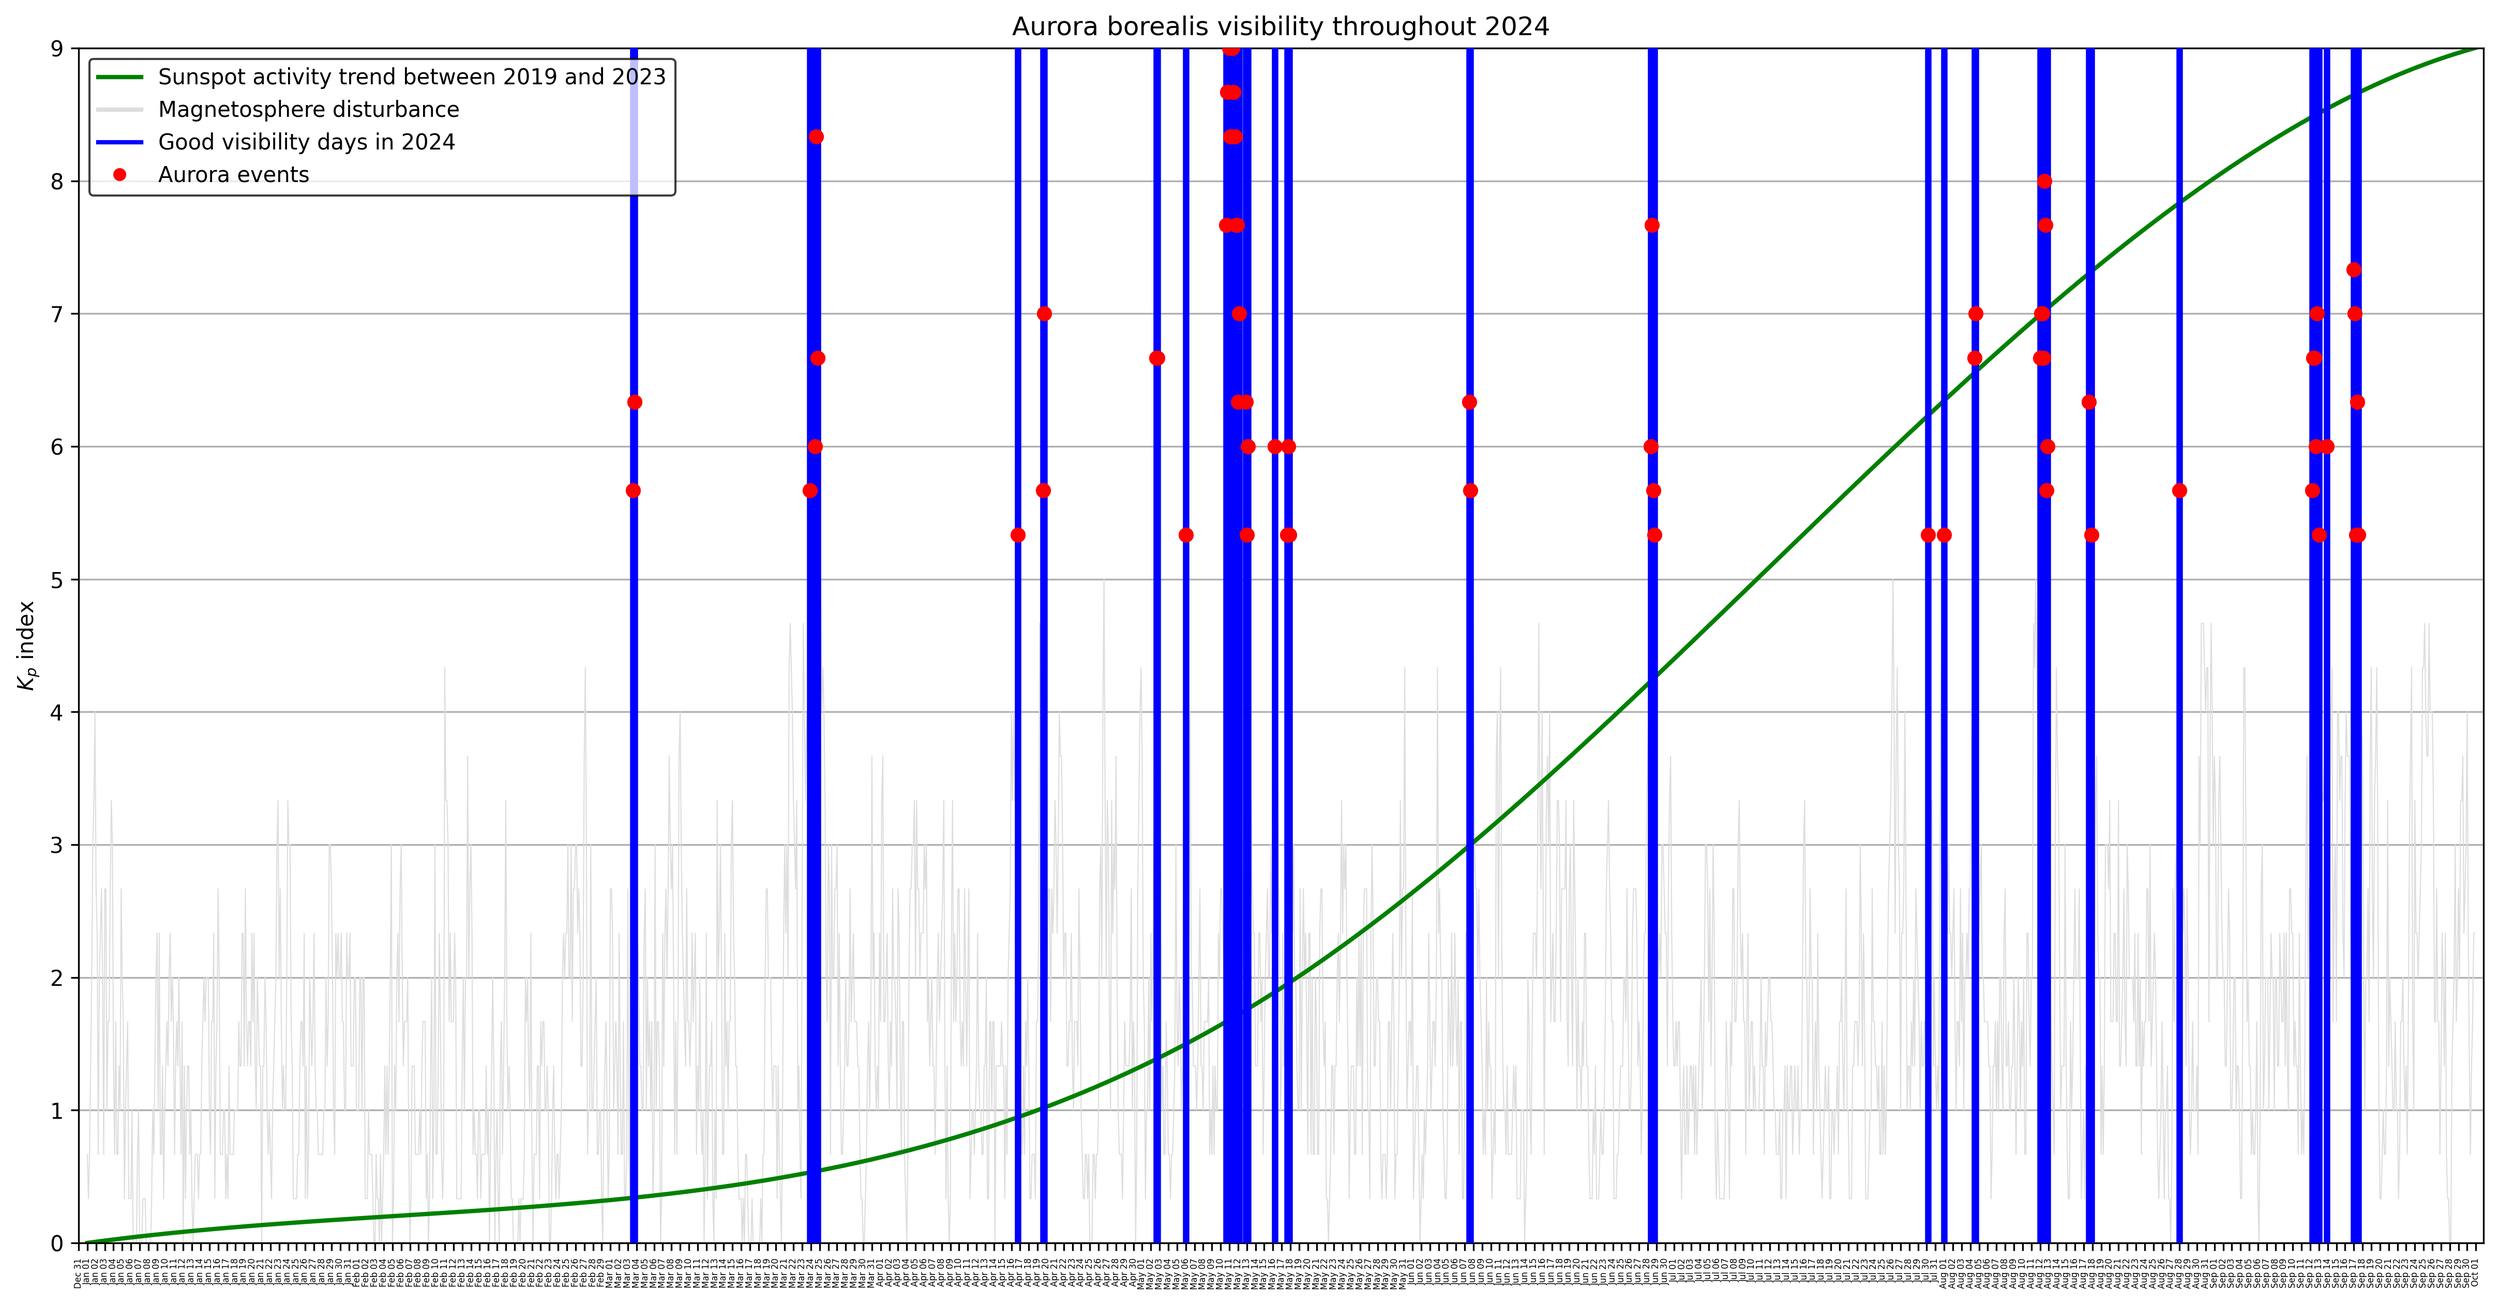
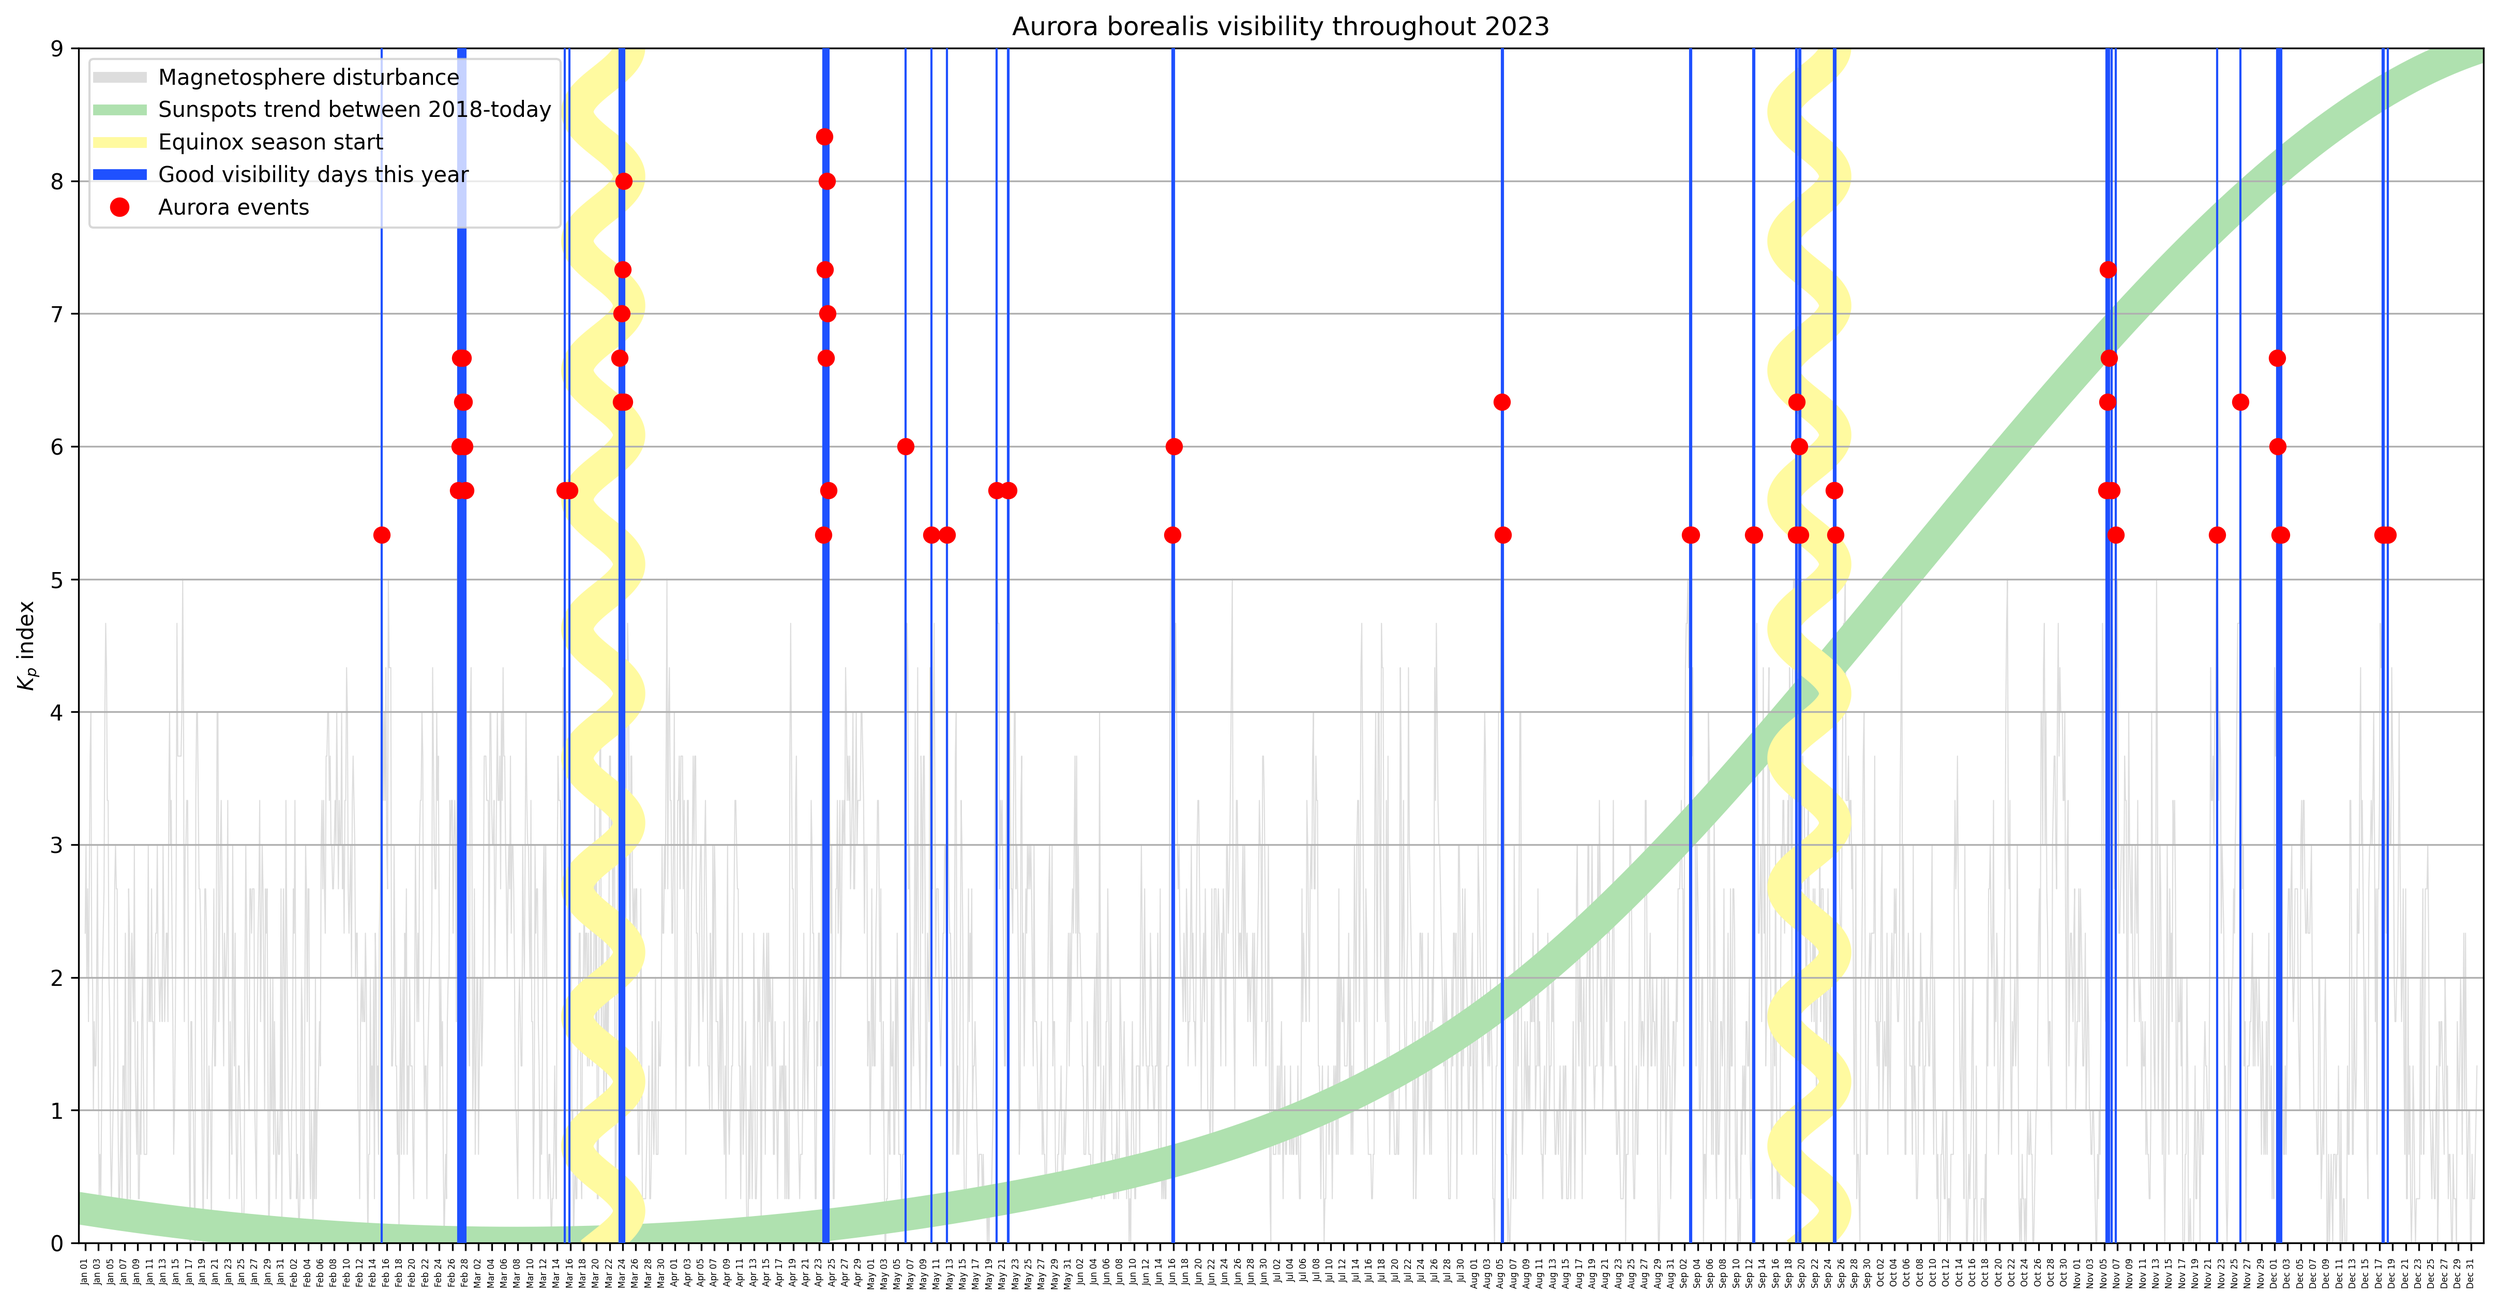
equinox

diff --git a/ABV.py b/ABV.py
@@ -12,195 +12,157 @@ import matplotlib.dates as mdates
 import matplotlib.pyplot as plt
 import numpy as np
 from scipy.interpolate import CubicSpline
+from matplotlib import rcParams
 
 # constants
-KP_THRESHOLD = 5  # threshold for kp index to highlight
-CACHE_DIR = './cache'  # directory to store cached data
-SUNSPOT_FILE = f'{CACHE_DIR}/SN_y_tot_V2.0.csv'  # path to the sunspot csv file
+KP_THRESHOLD = 5
+CACHE_DIR = './cache'
+SUNSPOT_FILE = f'{CACHE_DIR}/SN_y_tot_V2.0.csv'
 
-# ensure the cache directory exists
-if not os.path.exists(CACHE_DIR):
-    os.makedirs(CACHE_DIR)
+# ensure cache directory exists
+os.makedirs(CACHE_DIR, exist_ok=True)
 
-# function to handle logging, respects --quiet flag
 def log(message, quiet=False):
     if not quiet:
         print(message)
 
-# load kp index data from a local json file or fetch from api if not cached
 def load_or_fetch_kp_index(year, quiet=False):
     cache_file = f'{CACHE_DIR}/kp_index_{year}.json'
 
-    # check if the year is in the future
     current_year = datetime.now().year
     if year > current_year:
         log(f"Year {year} not supported by data or not current", quiet)
         sys.exit(1)
 
-    # check if cache file exists
     if os.path.exists(cache_file):
         log(f"Loading Kp index data for {year} from cache", quiet)
         with open(cache_file, 'r') as f:
             data = json.load(f)
             times = [datetime.strptime(t, '%Y-%m-%dT%H:%M:%SZ') for t in data['times']]
-            kp_index = data['kp_index']
-            return times, kp_index
+            kp_values = data['kp_index']
+            return times, kp_values
     else:
         try:
-            # fetch kp index data from the api
             log(f"Fetching Kp index data for {year} from the API", quiet)
-            start_date = f'{year}-01-01'
-            end_date = f'{year}-12-31'
-
-            # get kp index data using the external script
-            times, kp_index, status = getKpindex(start_date, end_date, 'Kp', 'def')
-
-            # convert time strings to datetime objects
+            start_date, end_date = f'{year}-01-01', f'{year}-12-31'
+            times, kp_values, status = getKpindex(start_date, end_date, 'Kp', 'def')
             times = [datetime.strptime(t, '%Y-%m-%dT%H:%M:%SZ') for t in times]
 
-            # save the data to the cache file
             with open(cache_file, 'w') as f:
-                json.dump({'times': [t.strftime('%Y-%m-%dT%H:%M:%SZ') for t in times], 'kp_index': kp_index}, f)
+                json.dump({'times': [t.strftime('%Y-%m-%dT%H:%M:%SZ') for t in times], 'kp_index': kp_values}, f)
 
-            return times, kp_index
-        except NameError:
-            log(f"Year {year} not supported by data or not current", quiet)
+            return times, kp_values
+        except Exception:
+            log(f"Error fetching Kp index data for {year}.", quiet)
             sys.exit(1)
 
-# load sunspot data for a range of years from the csv file
 def load_sunspot_data(start_year, end_year, quiet=False):
     if not os.path.exists(SUNSPOT_FILE):
         log(f"Sunspot data file not found: {SUNSPOT_FILE}", quiet)
         return None
 
     sunspot_data = {}
-    # read the csv file without skipping the header (since it's crude and headerless)
     with open(SUNSPOT_FILE, 'r') as csvfile:
         reader = csv.reader(csvfile, delimiter=';')
-
         for row in reader:
-            row_year = float(row[0])  # use float to capture the `.5`
-            int_year = int(row_year)  # convert to integer to ignore the `.5`
-            if start_year <= int_year <= end_year:
-                sunspot_value = float(row[1])  # second column is the sunspot value
-                sunspot_data[int_year] = sunspot_value
+            try:
+                row_year = int(float(row[0])) # conversions to ignore the .5 float in the data
+                if start_year <= row_year <= end_year:
+                    sunspot_data[row_year] = float(row[1]) # second column is the sunspot value
+            except (ValueError, IndexError):
+                continue
 
     return sunspot_data
 
-# plot kp index for a specific year with local cache support and overlay sunspot data
 def plot_kp_index_for_year(year, quiet=False, clean=False):
-    # load or fetch kp index data
-    times, kp_index = load_or_fetch_kp_index(year, quiet)
+    times, kp_values = load_or_fetch_kp_index(year, quiet)
 
-    # debugging: print the retrieved data length
     log(f"Retrieved {len(times)} entries for year {year}", quiet)
 
-    # load sunspot data for the current year, the previous 5 years, and the next year
     start_year = year - 5
-    prev_year = year - 1  # fetch the previous year's value
-    next_year = year + 1  # fetch the next year's value
-    sunspot_data = load_sunspot_data(start_year, next_year, quiet)
+    sunspot_data = load_sunspot_data(start_year, year + 1, quiet)
 
-    # handle missing sunspot data
     if not sunspot_data:
         log("Sunspot data not available, skipping sunspot plot.", quiet)
-        sunspot_data = {}  # set to an empty dictionary to avoid future errors
+        sunspot_data = {} # set to an empty dictionary to avoid future errors
 
     # find the last available year for sunspot data
     last_available_year = max(sunspot_data.keys(), default=None)
 
+    sunspot_values = [sunspot_data.get(yr) for yr in range(start_year, last_available_year + 1)] if last_available_year else None
+
     if last_available_year and last_available_year < year:
         log(f"Sunspot data only available up to {last_available_year}", quiet)
-    else:
-        last_available_year = year  # use the current year if data exists for it
 
-    # get the sunspot values in the range [start_year, last_available_year]
-    sunspot_years = [yr for yr in range(start_year, last_available_year + 1) if yr in sunspot_data]  # only use years with data
-    sunspot_values = [sunspot_data.get(yr) for yr in sunspot_years]  # skip years without sunspot data
+    plt.figure(figsize=(20, 10))
 
     # log sunspot data for the previous year (if available)
-    if prev_year in sunspot_data:
-        log(f"Previous year sunspot: {sunspot_data[prev_year]}", quiet)
+    if year - 1 in sunspot_data:
+        log(f"Sunspots before {year}: {sunspot_data[year - 1]}", quiet)
+
+    plt.plot(times, kp_values, color='#dddddd', linewidth=0.5, zorder=1)
 
     # output sunspot value for logging (only if available for the current year)
     if year in sunspot_data:
-        log(f"Sunspot value for {year}: {sunspot_data[year]}", quiet)
+        log(f"Sunspots for {year}: {sunspot_data[year]}", quiet)
 
-    # handle next year's sunspot value with fallback to the current year if missing
-    if last_available_year == year:
-        next_year_sunspot = sunspot_data.get(next_year, sunspot_data.get(year, None))
+    for i, value in enumerate(kp_values):
+        if value > KP_THRESHOLD:
+            plt.axvline(x=times[i], color='#1F51FF', linewidth=1, zorder=3)
+            plt.scatter([times[i]], [value], color='r', marker='o', linewidth=2, zorder=5)
+
+    if year + 1 in sunspot_data or year in sunspot_data:
+        next_year_sunspot = sunspot_data.get(year + 1, sunspot_data.get(year, None))
         if next_year_sunspot:
-            log(f"Next year sunspot: {next_year_sunspot}", quiet)
+            log(f"Sunspots after {year}: {next_year_sunspot}", quiet)
 
-    # use cubic spline interpolation for a smooth transition between sunspot values (if data exists)
-    if sunspot_years and sunspot_values:
-        cubic_spline = CubicSpline(np.linspace(0, len(times) - 1, len(sunspot_values)), sunspot_values)
-        sunspot_curve_y = cubic_spline(np.linspace(0, len(times) - 1, len(times)))
-    else:
-        sunspot_curve_y = None  # no sunspot data to plot
-
-    # prepare a figure with increased size for better visibility
-    plt.figure(figsize=(20, 10))  # larger figure size
-
-    # plot all kp index values (line) in light gray
-    plt.plot(times, kp_index, color='#dddddd', linewidth=0.5)  # base line in light gray
-
-    # highlight values above threshold in blue and mark them with red dashes
-    for i in range(len(kp_index)):
-        if kp_index[i] > KP_THRESHOLD:
-            plt.axvline(x=times[i], color='b', linewidth=3, zorder=3)  # draw vertical line for values > threshold
-            # add horizontal markers for the kp index level
-            plt.scatter([times[i]], [kp_index[i]], color='r', marker='o', zorder=5)  # red markers
-
-    # keep the y-axis fixed at 0-9 as requested
     plt.ylim(0, 9)
 
-    # overlay the green line smoothly transitioning from 5 years ago to the input year (if sunspot data exists)
-    if sunspot_curve_y is not None:
+    # draw the green band smoothly transitioning from 5 years ago to the input year (if sunspot data exists)
+    if sunspot_values:
+        cubic_spline = CubicSpline(np.linspace(0, len(times) - 1, len(sunspot_values)), sunspot_values)
+        sunspot_curve_y = cubic_spline(np.linspace(0, len(times) - 1, len(times)))
         scaled_curve_y = 9 * (sunspot_curve_y - min(sunspot_curve_y)) / (max(sunspot_curve_y) - min(sunspot_curve_y))
-        plt.plot(times, scaled_curve_y, color='g', linewidth=2, linestyle='-', zorder=2, label=f"Sunspot activity trend between {start_year} and {last_available_year}")
+        plt.plot(times, scaled_curve_y, color='#AFE1AF', linewidth=15, label=f"Sunspots trend", zorder=1)
 
-    # create custom legend handles for kp index, sunspot, and events
-    base_line_handle = plt.Line2D([], [], color='#dddddd', linewidth=2, label="Magnetosphere disturbance")
-    line_handle = plt.Line2D([0], [0], color='b', linewidth=2, label=f'Good visibility days in {year}')
-    sunspot_handle = plt.Line2D([0], [0], color='g', linewidth=2, label=f'Sunspot activity trend between {start_year} and {last_available_year}' if sunspot_curve_y is not None else '')
-    event_handle = plt.Line2D([0], [0], color='r', marker='o', linestyle='None', markersize=5, label='Aurora events')
+    # set sketch parameters only for the yellow zig-zag equinox lines
+    rcParams['path.sketch'] = (50, 250, 1)  # (scale, length of wiggle, randomness) - more amplitude, smoother
 
-    plt.title(f'Aurora borealis visibility throughout {year}')  # dynamic year in title
-    plt.ylabel(r'$\it{K}_p$ index')  # k italic, p subscript, index lowercase
-    plt.grid(axis='y')  # enable only horizontal grid lines
+    # plot zig-zag yellow lines for march 21st and september 21st
+    highlight_yellow = '#FFFAA0'
+    for date_str in [f"{year}-03-21", f"{year}-09-21"]:
+        equinox_date = datetime.strptime(date_str, '%Y-%m-%d')
+        if equinox_date in times:
+            plt.axvline(x=equinox_date, color=highlight_yellow, linewidth=15, label='Equinox season start', zorder=1)
 
-    # format the x-axis to show only the month and day, hide the year
-    date_format = mdates.DateFormatter('%b %d')  # e.g., 'jan 01'
-    plt.gca().xaxis.set_major_formatter(date_format)
+    # restore normal line settings for everything else
+    rcParams['path.sketch'] = None
 
-    # set x-ticks for every day in the year with padding
-    plt.xticks(times, rotation=90, fontsize=4)  # keep all dates but rotate for visibility
-    plt.gca().xaxis.set_major_locator(plt.MaxNLocator(nbins=365, integer=True))  # allow for all ticks with spacing
+    plt.title(f'Aurora borealis visibility throughout {year}')
+    plt.ylabel(r'$\it{K}_p$ index') # k italic, p subscript, index lowercase
+    plt.grid(axis='y')
 
-    # adjust x-axis limits to add space around the plot
-    plt.xlim([times[0] - timedelta(days=1), times[-1] + timedelta(days=1)])  # adding padding on the x-axis
+    plt.gca().xaxis.set_major_formatter(mdates.DateFormatter('%b %d')) # format the x-axis to show only the month and day, hide the year
+    plt.xticks(times, rotation=90, fontsize=4) # keep all dates but rotate for visibility
+    plt.gca().xaxis.set_major_locator(plt.MaxNLocator(nbins=365, integer=True)) # allow for all ticks with spacing
+    plt.xlim([times[0] - timedelta(days=1), times[-1] + timedelta(days=1)]) # adding padding on the x-axis
 
-    # hide the x-axis label
-    plt.xlabel('')
-
-    # if --clean option is set, skip adding the legend
     if not clean:
-        # add a custom legend with a white background, including the green line for sunspot activity
-        legend_handles = [sunspot_handle, base_line_handle, line_handle, event_handle]  # adjust order of handles
-        legend = plt.legend(handles=legend_handles, loc='upper left', facecolor='#ffffff', framealpha=0.75)
-        legend.get_frame().set_edgecolor('#000000')  # add a border to the legend box
+        legend_handles = [
+            plt.Line2D([0], [0], color='#dddddd', linewidth=5, label="Magnetosphere disturbance"),
+            plt.Line2D([0], [0], color='#AFE1AF', linewidth=5, label=f'Sunspots trend between {start_year}-today'),
+            plt.Line2D([0], [0], color=highlight_yellow, linewidth=5, label='Equinox season start'),
+            plt.Line2D([0], [0], color='#1F51FF', linewidth=5, label=f'Good visibility days this year'),
+            plt.Line2D([0], [0], color='r', marker='o', linestyle='None', markersize=8, label='Aurora events')
+        ]
+        plt.legend(handles=legend_handles, loc='upper left', facecolor='#ffffff', framealpha=0.75)
 
-    # save the plot as a png file without showing it
     file_name = f'kp_index_{year}.png'
     plt.savefig(file_name, format='png', dpi=300, bbox_inches='tight')
-
-    # close the plot to avoid display
     plt.close()
 
     log(f"Plot saved as {file_name}", quiet)
 
-# print the help message for script usage
 def print_help():
     help_message = """
     Usage: python script.py <YEAR> [--quiet] [--clean] [--help]
@@ -214,20 +176,14 @@ def print_help():
     print(help_message)
 
 if __name__ == '__main__':
-    # check for the --quiet, --clean, and --help flags
-    quiet = '--quiet' in sys.argv
-    clean = '--clean' in sys.argv
-    show_help = '--help' in sys.argv
-
-    # remove --quiet, --clean, and --help from arguments
-    args = [arg for arg in sys.argv if arg not in ['--quiet', '--clean', '--help']]
-
-    # show help message if --help is provided or no arguments are given
-    if show_help or len(args) == 1:
+    if '--help' in sys.argv or len(sys.argv) == 1:
         print_help()
         sys.exit(0)
 
-    # check if the user provided a year argument
+    quiet = '--quiet' in sys.argv
+    clean = '--clean' in sys.argv
+    args = [arg for arg in sys.argv if arg not in ['--quiet', '--clean', '--help']]
+
     if len(args) != 2:
         print("Usage: python script.py <YEAR> [--quiet] [--clean] [--help]")
         sys.exit(1)
